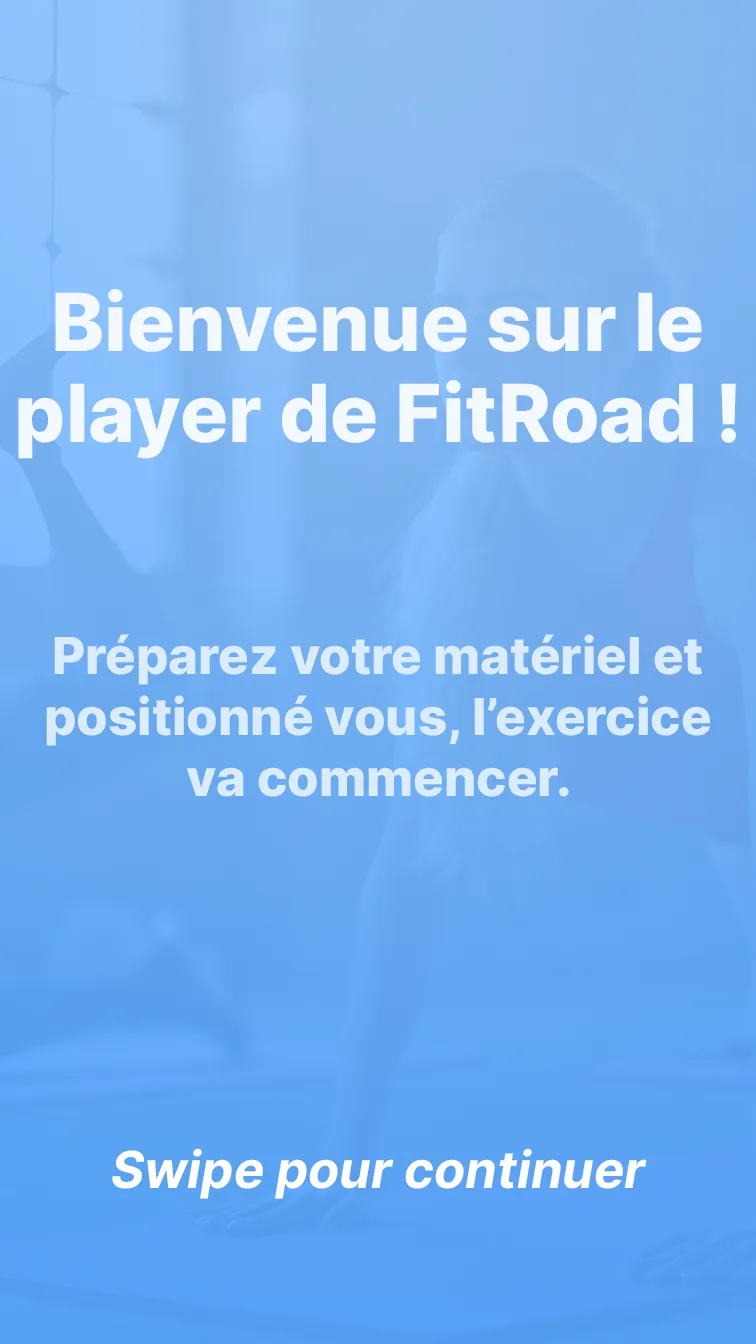
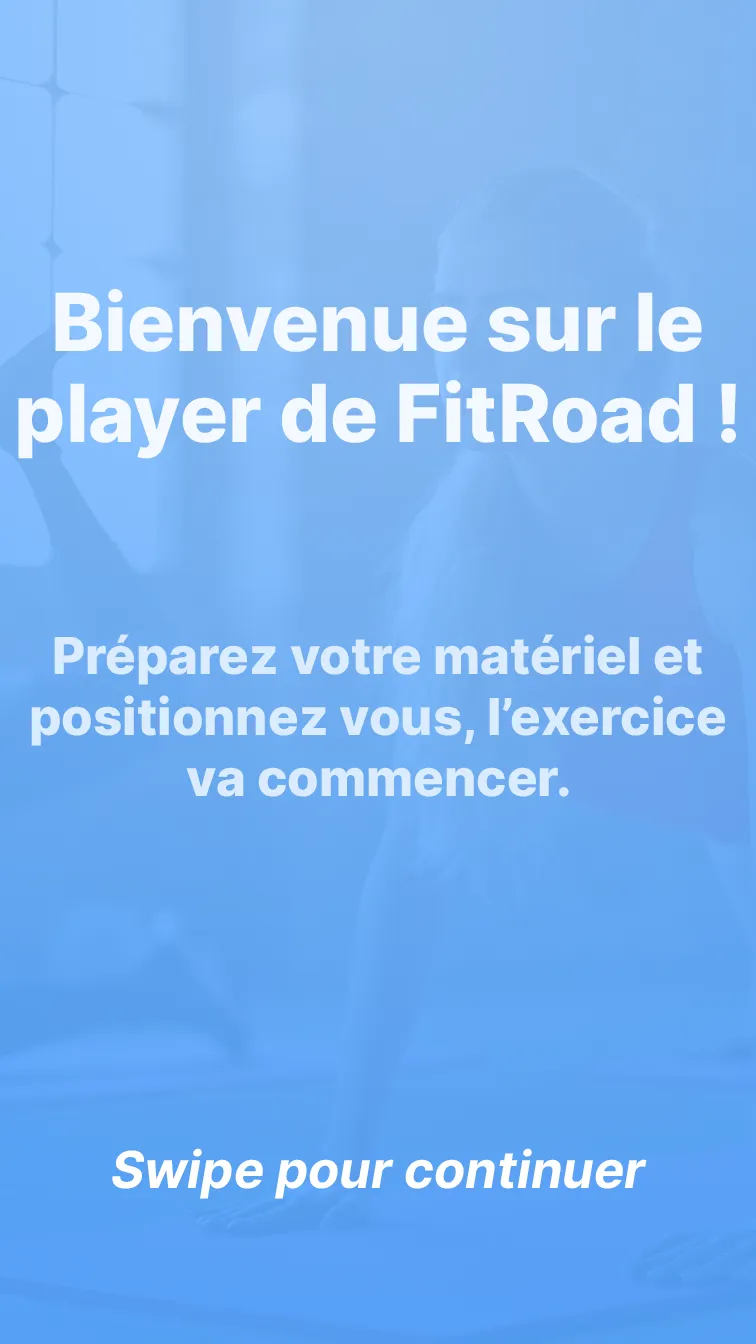
Fix orthograph on text and image

Changed region(s): [[0.0304, 0.5, 0.9735, 0.5625]]

diff --git a/assets/js/swiper.js b/assets/js/swiper.js
@@ -18,7 +18,7 @@ class Carousel {
     this.addCard("img", {
       path: "/assets/img/introduction.webp",
       name: "Bienvenue sur le Player FitRoad",
-      desc: "Préparer votre matériel et positionné vous, l'exercice vac commencer.",
+      desc: "Préparez votre matériel et positionné vous, l'exercice va commencer.",
     });
     
     // handle gestures
@@ -196,6 +196,7 @@ class Carousel {
       video.preload = "true";
       videosrc.src = path || "/assets/video/releve-beginner.mp4";
       videosrc.type = "video/mp4";
+
       card.draggable = false;
       video.draggable = false;
       card.appendChild(video);
